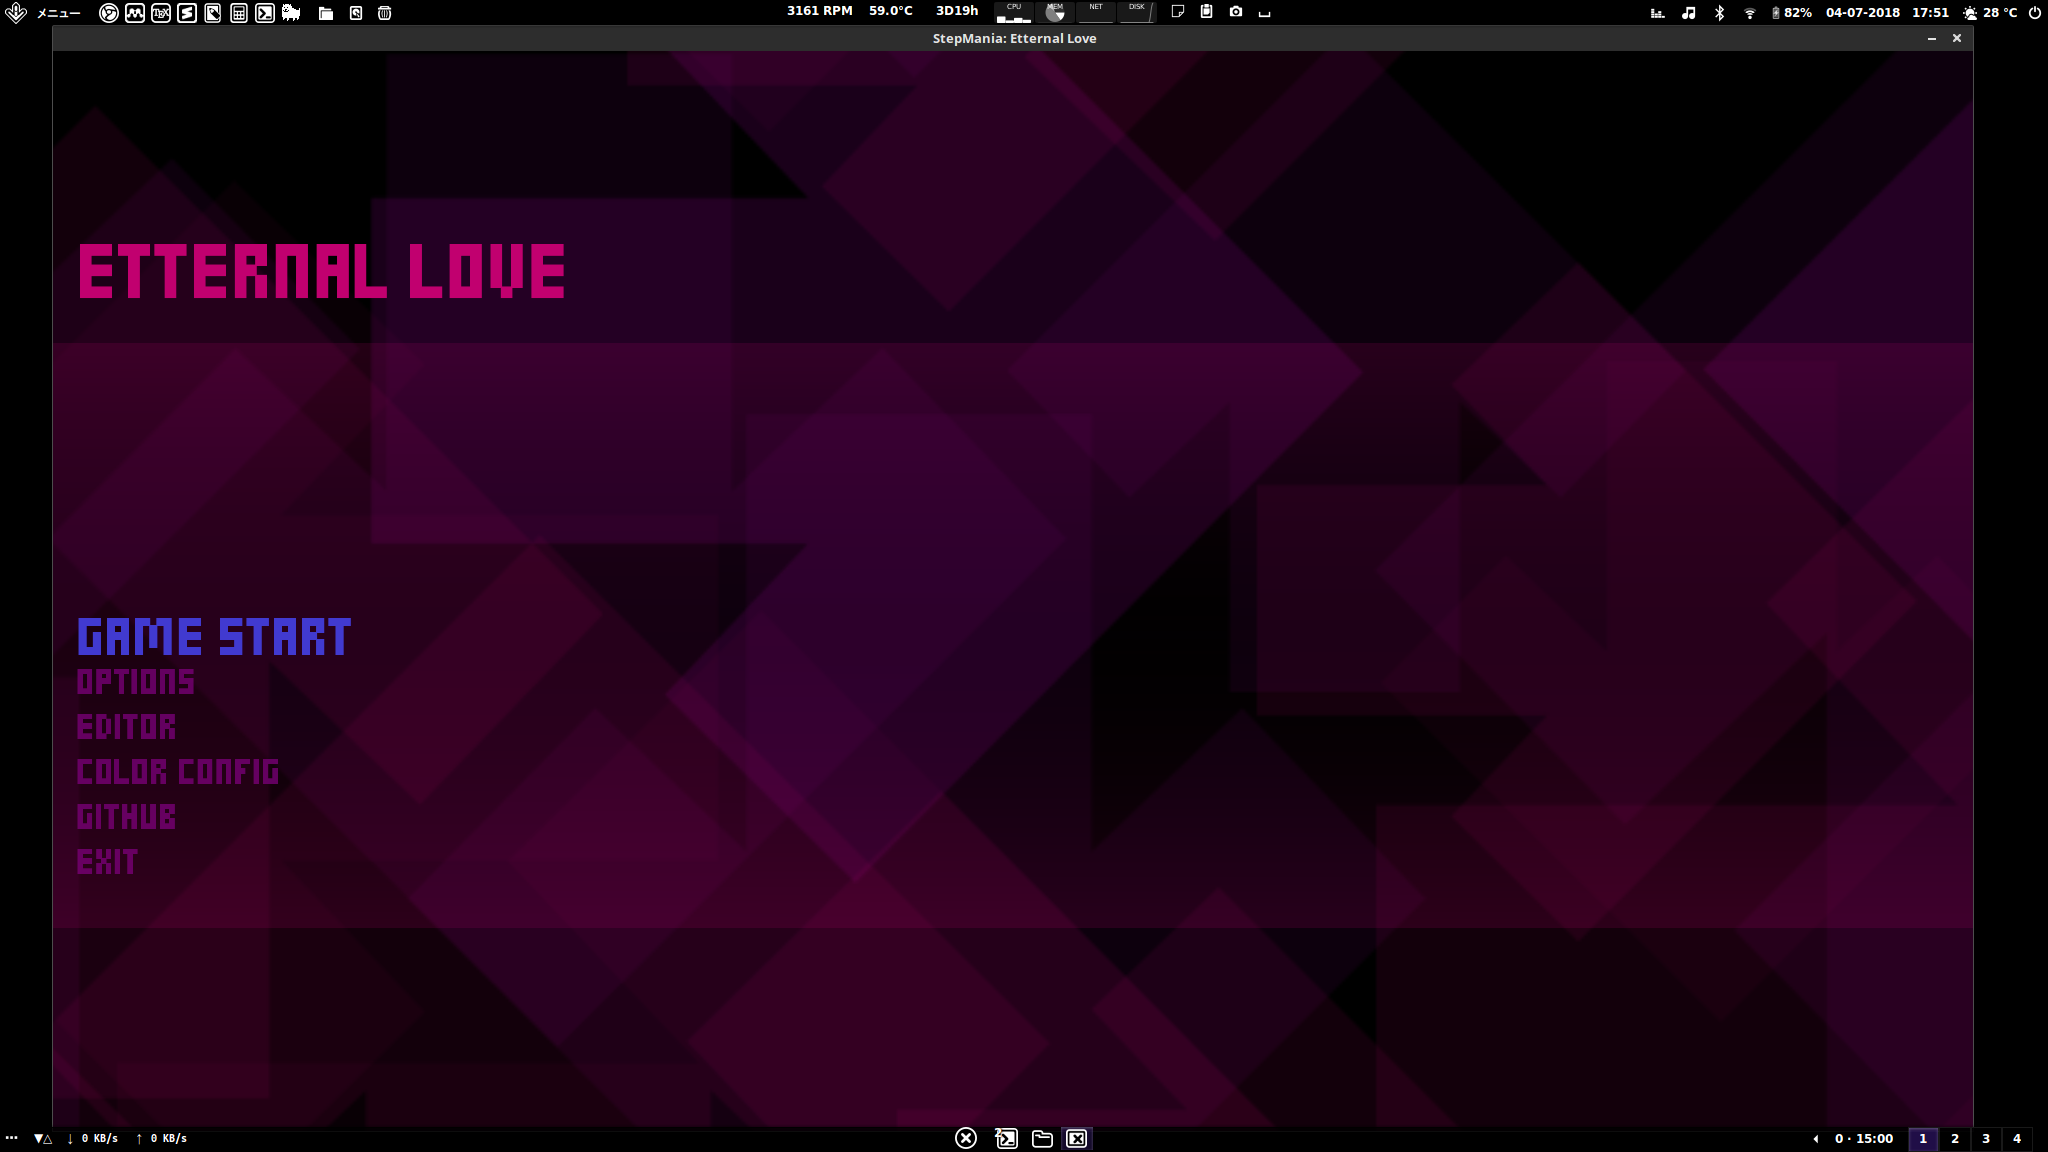
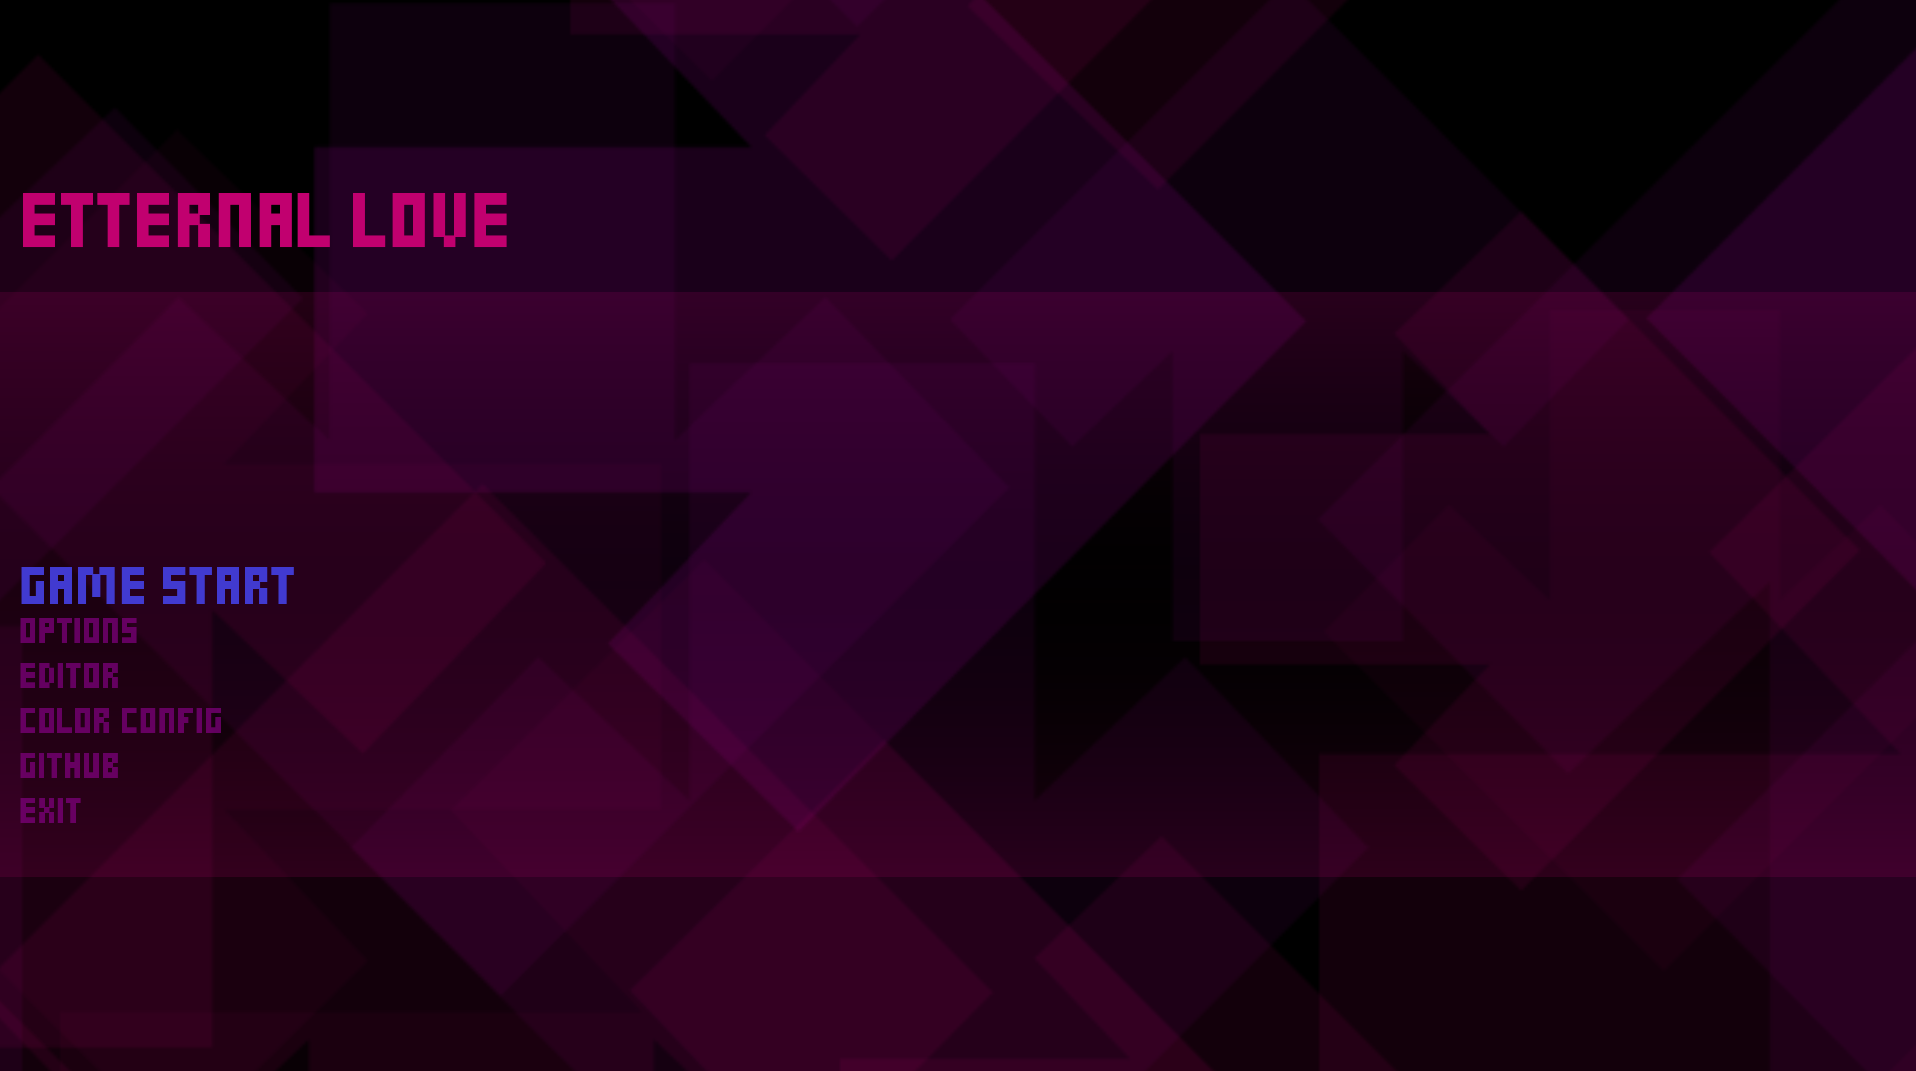
cropped screenshots

diff --git a/README.md b/README.md
@@ -9,7 +9,7 @@ In Linux for example, these settings can be found in  `../Etterna/Save/Til Death
 Likewise, the contents of `../Etterna/Save/LocalProfiles/00000001/Til Death_settings/` (playerConfig.lua) can be copied to `../Etterna/Save/LocalProfiles/00000001/Etternal-Love_settings/`. 
 
 ### Screenshots (may be outdated)
-![](Graphics/assets/screenshots/screen0.png)
+![](Graphics/assets/screenshots/screen00.png)
 ![](Graphics/assets/screenshots/screen1.png)
 ![](Graphics/assets/screenshots/screen2.png)
 ![](Graphics/assets/screenshots/screen3.png) 
